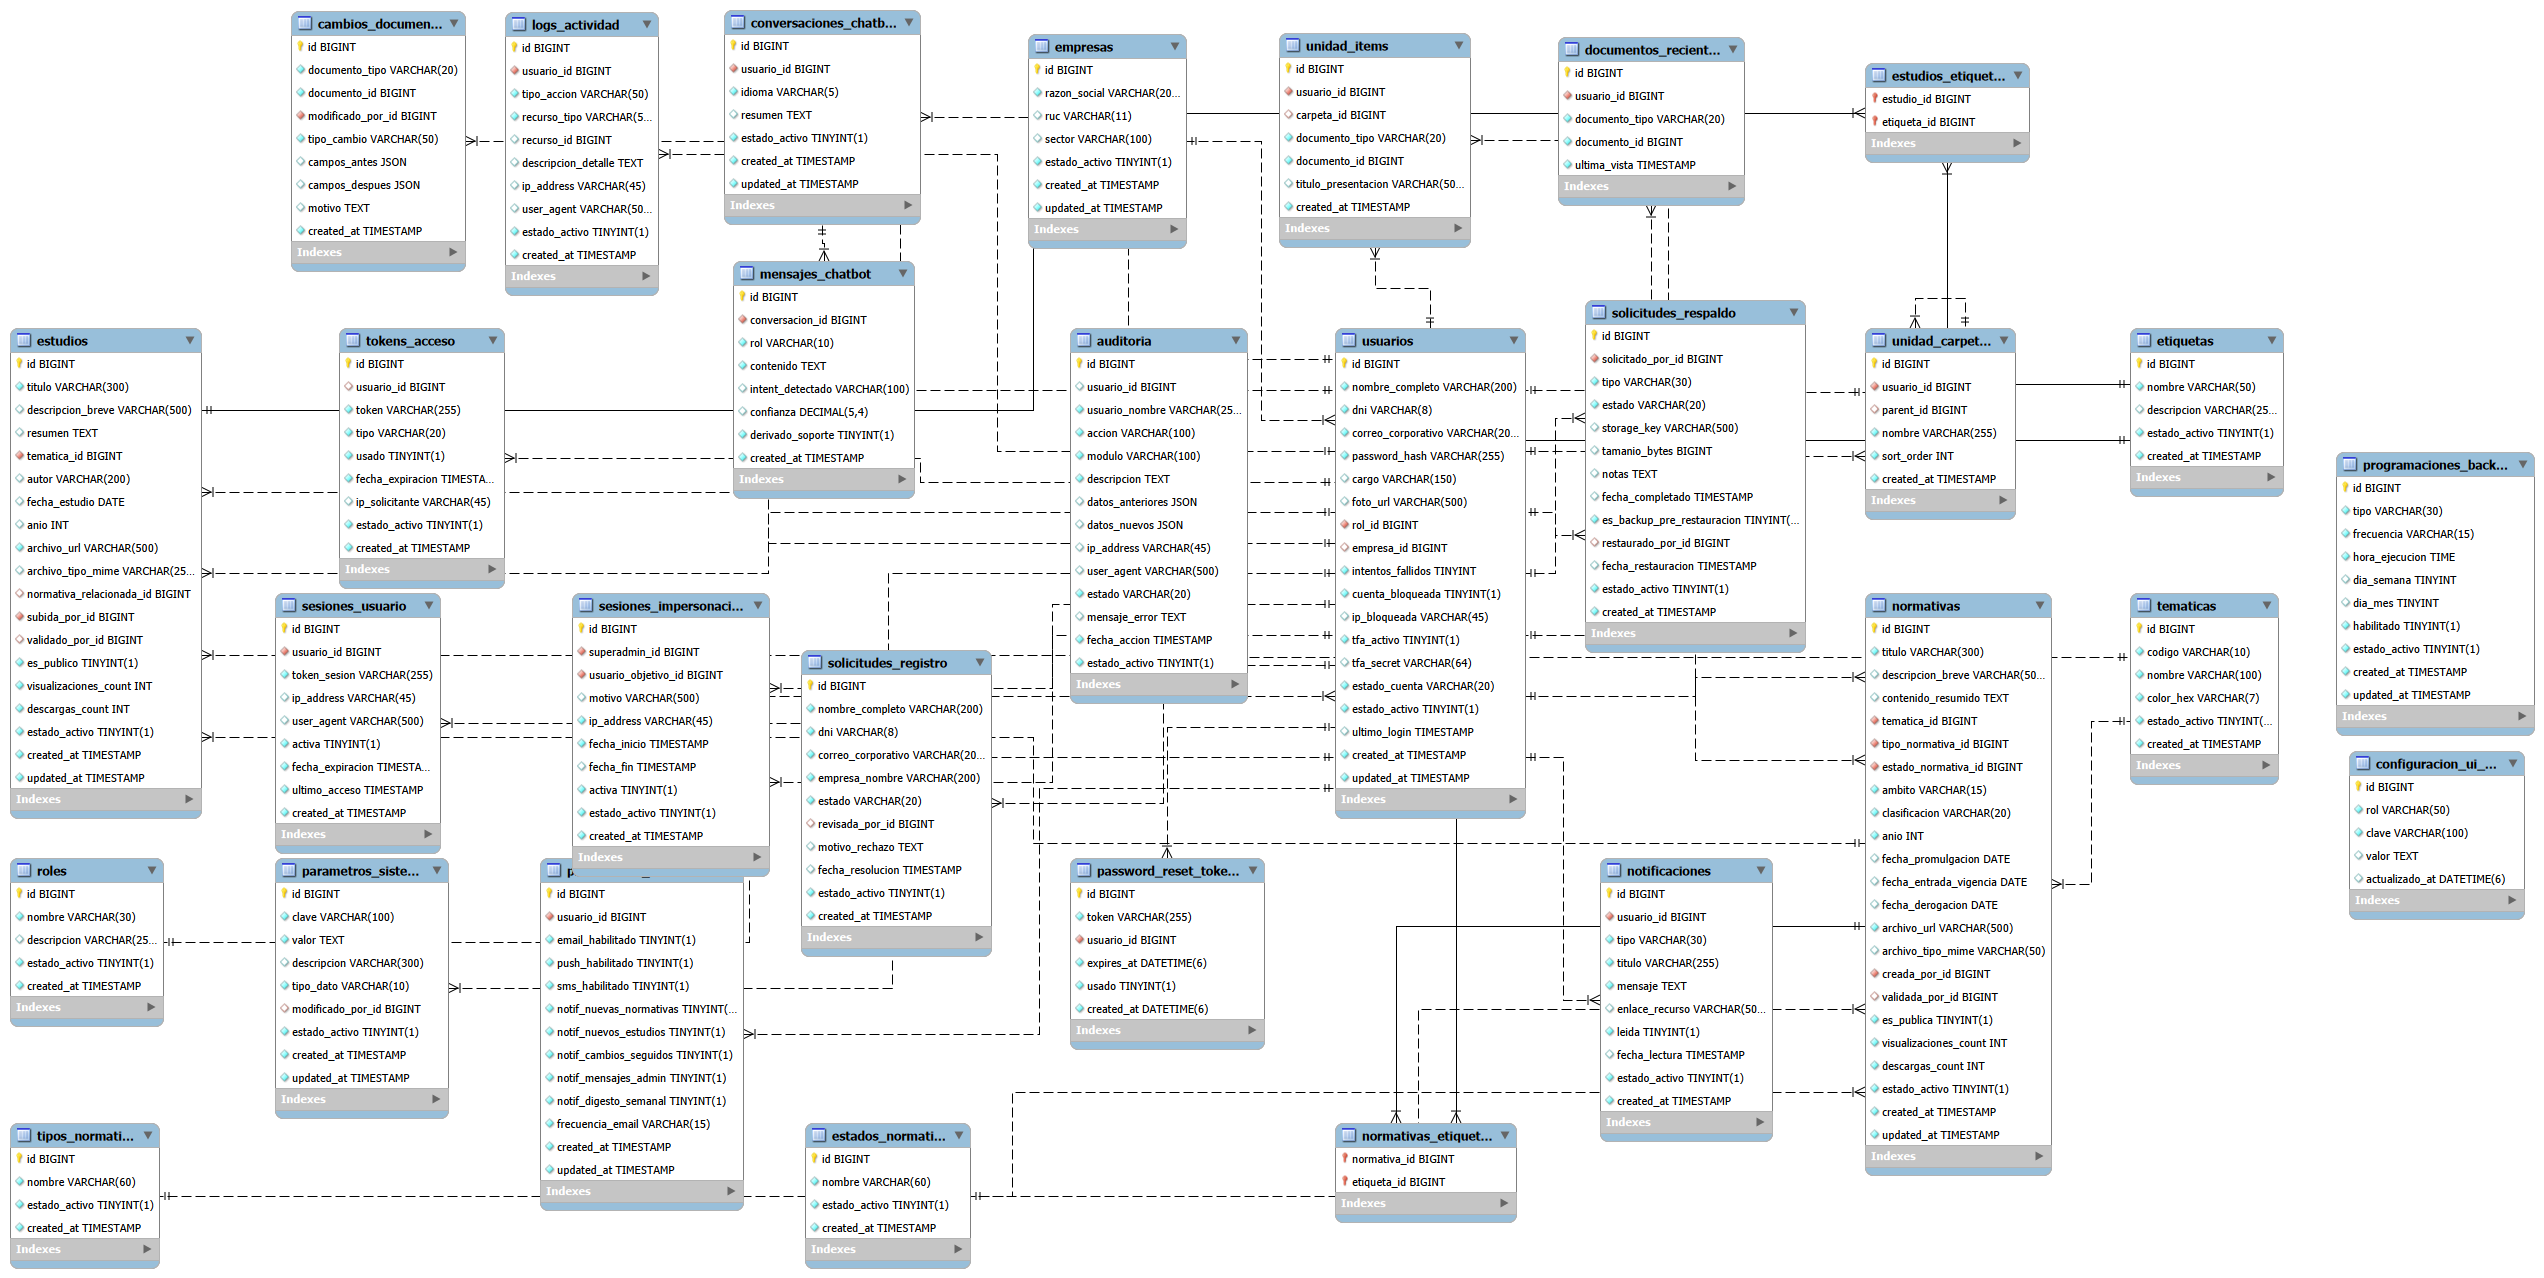
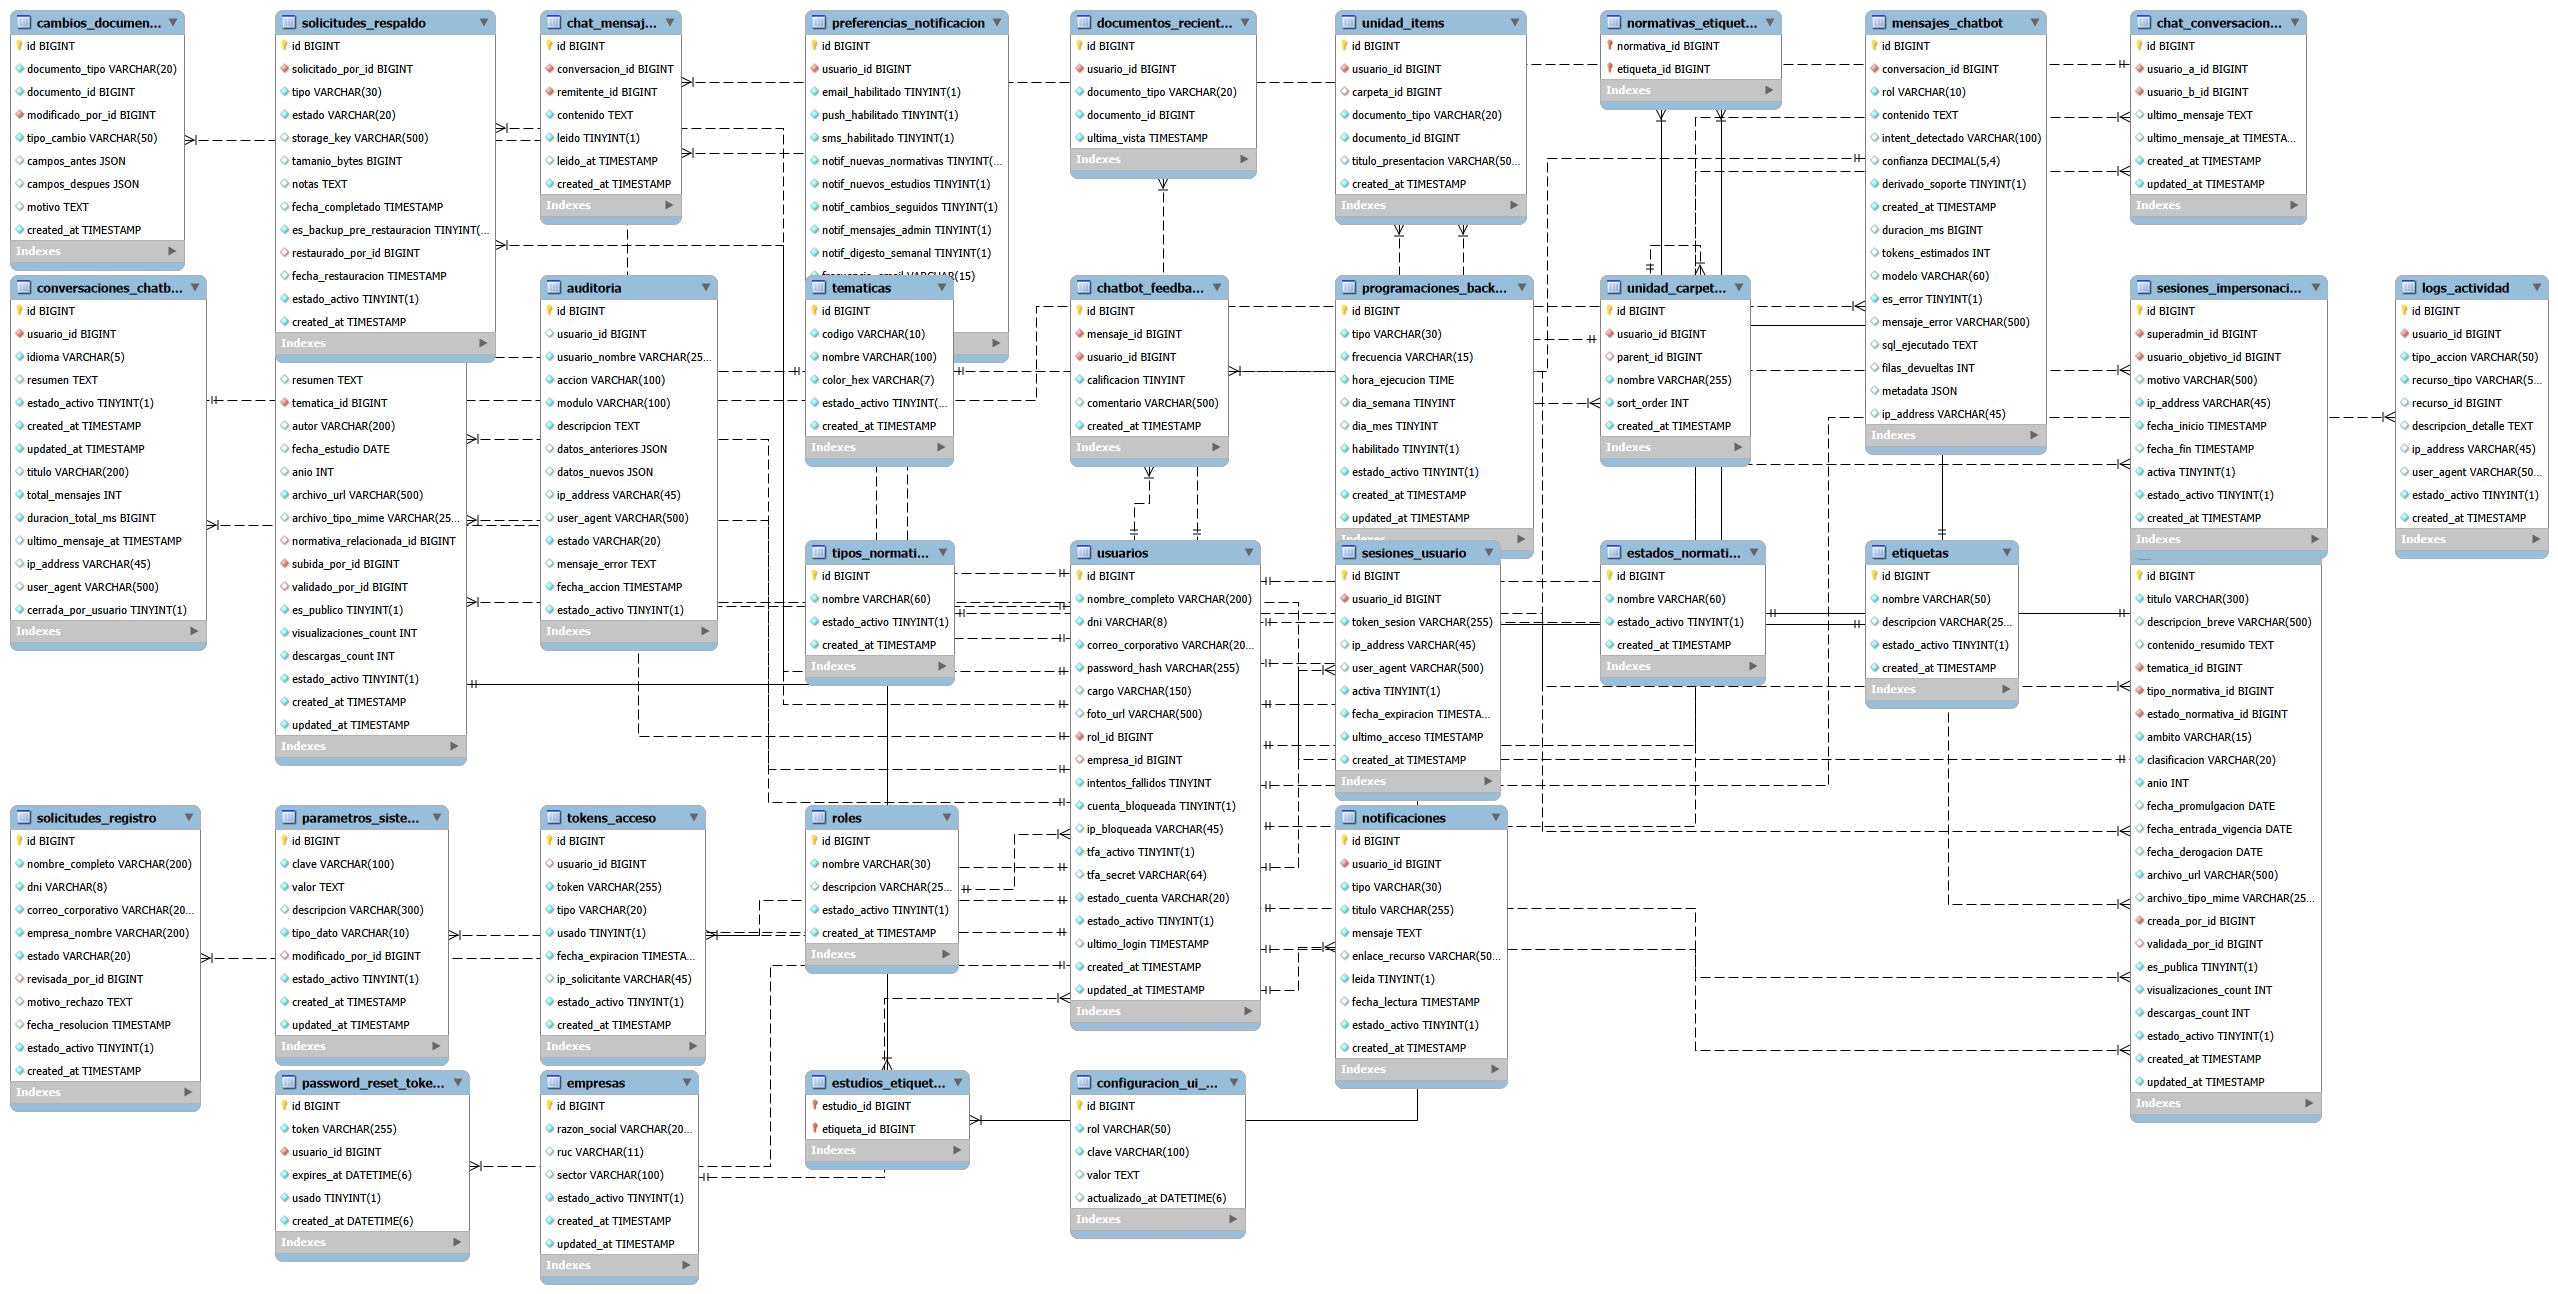
Nandemonaiya

Changed region(s): [[0.0, 0.0, 1.0, 1.0]]

diff --git a/src/main/resources/templates/components/chatbot.html b/src/main/resources/templates/components/chatbot.html
@@ -11,8 +11,8 @@
           onclick="toggleChatbot()"
           style="display:none;"
           aria-label="Abrir asistente La Buena Cajita">
-    <img th:src="@{/assets/images/mascota.png}"
-         src="/assets/images/mascota.png"
+    <img th:src="@{/assets/images/mascota.webp}"
+         src="/assets/images/mascota.webp"
          alt="La Buena Cajita" />
   </button>
 
@@ -21,8 +21,8 @@
 
     <div class="chat-header">
       <div style="display:flex;align-items:center;gap:10px;">
-        <img th:src="@{/assets/images/mascota.png}"
-             src="/assets/images/mascota.png"
+        <img th:src="@{/assets/images/mascota.webp}"
+             src="/assets/images/mascota.webp"
              alt="La Buena Cajita" />
         <div>
           <div class="chat-title">La Buena Cajita</div>

diff --git a/src/main/resources/templates/Admin/notificaciones.html b/src/main/resources/templates/Admin/notificaciones.html
@@ -388,12 +388,12 @@
     </div>
 
     <button id="chatbot-bubble" onclick="toggleChatbot()">
-      <img th:src="@{/assets/images/mascota.png}" src="/assets/images/mascota.png" alt="La Buena Cajita" />
+      <img th:src="@{/assets/images/mascota.webp}" src="/assets/images/mascota.webp" alt="La Buena Cajita" />
     </button>
     <div id="chatbot-panel">
       <div class="chat-header">
         <div style="display:flex;align-items:center;gap:10px;">
-          <img th:src="@{/assets/images/mascota.png}" src="/assets/images/mascota.png" alt="La Buena Cajita" />
+          <img th:src="@{/assets/images/mascota.webp}" src="/assets/images/mascota.webp" alt="La Buena Cajita" />
           <div>
             <div class="chat-title">La Buena Cajita</div>
             <div class="chat-status"><span

diff --git a/src/main/resources/templates/SuperAdmin/notificaciones.html b/src/main/resources/templates/SuperAdmin/notificaciones.html
@@ -388,12 +388,12 @@
     </div>
 
     <button id="chatbot-bubble" onclick="toggleChatbot()">
-      <img th:src="@{/assets/images/mascota.png}" src="/assets/images/mascota.png" alt="La Buena Cajita" />
+      <img th:src="@{/assets/images/mascota.webp}" src="/assets/images/mascota.webp" alt="La Buena Cajita" />
     </button>
     <div id="chatbot-panel">
       <div class="chat-header">
         <div style="display:flex;align-items:center;gap:10px;">
-          <img th:src="@{/assets/images/mascota.png}" src="/assets/images/mascota.png" alt="La Buena Cajita" />
+          <img th:src="@{/assets/images/mascota.webp}" src="/assets/images/mascota.webp" alt="La Buena Cajita" />
           <div>
             <div class="chat-title">La Buena Cajita</div>
             <div class="chat-status"><span

diff --git a/src/main/resources/templates/navbar/topbar.html b/src/main/resources/templates/navbar/topbar.html
@@ -399,7 +399,7 @@
                   && $('chat-side-panel').classList.contains('open')) return;
               const n = new Notification('💬 ' + (data.remitenteNombre || 'Nuevo mensaje'), {
                 body: data.contenido,
-                icon: '/assets/images/mascota.png',
+                icon: '/assets/images/mascota.webp',
                 tag: 'chat-' + data.conversacionId,
                 renotify: true
               });
